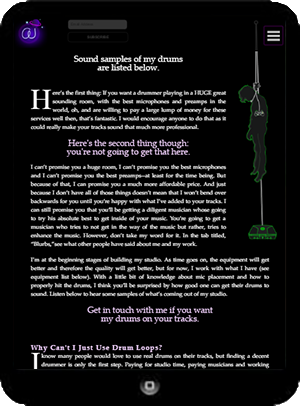
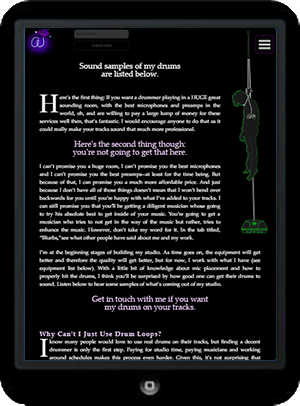
Adjust margins to remove horizontal wiggle

diff --git a/components/sass/styles.scss b/components/sass/styles.scss
@@ -19,7 +19,7 @@ for the dist build */
             margin: -1px;
             overflow: hidden;
             clip: rect(0, 0, 0, 0);
-            border: 0
+            border: 0;
         }
         .sr-only-focusable:active,
         .sr-only-focusable:focus {
@@ -28,7 +28,7 @@ for the dist build */
             height: auto;
             margin: 0;
             overflow: visible;
-            clip: auto
+            clip: auto;
         }
     }
     
@@ -203,7 +203,7 @@ for the dist build */
                         p:nth-of-type(4) {
                             position: relative;
                             z-index: 100;
-                            width: 70%;
+                            width: 60%;
                             ul {
                                 background: $color1;
                             }
@@ -240,7 +240,7 @@ for the dist build */
                 .process2 {
                     position: relative;
                     opacity: 0;
-                    top: 50px;
+                    top: 100px;
                     p {
                         padding-top: 0px;
                     }
@@ -248,12 +248,12 @@ for the dist build */
                 .process3 {
                     position: relative;
                     opacity: 0;
-                    top: -200px;
+                    top: -275px;
                 }
                 .process4 {
                     position: relative;
                     opacity: 0;
-                    top: -475px;
+                    top: -625px;
                     p {
                         padding-top: 100px;
                     }
@@ -285,10 +285,10 @@ for the dist build */
                     animation-fill-mode: forwards;
                 }
                 #processControl {
-                    width: 100%;
+                    width: 97.5%;
                     padding-left: 2.5%;
                     color: $color3;
-                    margin-top: -750px;
+                    margin-top: -1050px;
                     div {
                         display: inline-block;
                         width: 10%;
@@ -349,6 +349,7 @@ for the dist build */
             }
             .portfolio {
                 background: $color3;
+                margin-bottom: 3.375rem;
                 img:nth-of-type(1) {
                     margin-left: 5%;
                     width: 70%;
@@ -371,7 +372,7 @@ for the dist build */
                 }
                 .col6:nth-of-type(2) {
                     img {
-                        width: 100%;
+                        width: 90%;
                         max-width: 500px;
                     }
                 }
@@ -407,13 +408,16 @@ for the dist build */
                         @include formStyling;
                     }
                     button {
+                        width: 80%;
+                        margin: 1rem 10%;
                         border-color: $color4;
                         color: $color4;
                         &:hover {
-                            color: $color3;
+                            color: $color2;
+                            border-color: $color3;
                         }
                         &:before {
-                            background: $color4;
+                            background: $color3;
                         }
                     }
                 }
@@ -421,6 +425,7 @@ for the dist build */
         }
         footer {
             background: $color5;
+            border-top: 12px solid $color4;
             text-align: center;
             @include links;
             .fa {
@@ -429,7 +434,19 @@ for the dist build */
             a:before {
                 background: transparent;
             }
-        }
+            
+            .col12 { 
+                span {
+                color: $color4;
+                }
+                a {
+                    margin-left: 20%;
+                }
+                i {
+                    color: $color2;
+                }
+            }
+        }       
     }
     
     @media only screen and (min-width: 375px) {
@@ -441,13 +458,13 @@ for the dist build */
                 top: 150px;
             }
             .process3 {
-                top: -100px;
+                top: -150px;
             }
             .process4 {
-                top: -375px;
+                top: -475px;
             }
             #processControl {
-                margin-top: -600px;
+                margin-top: -800px;
             }
         }
     }
@@ -735,17 +752,16 @@ for the dist build */
     @media only screen and (min-width: 960px) {
         html {}
         body {
-            nav {}
-            main {
-                #intro {
-                    div {
-                        .col6:first-of-type {
-                            p {
-                                width: 50vw;
-                            }
+            header {
+                nav {
+                    .navbar {
+                        li {
+                            font-size: 1.25rem;
                         }
                     }
                 }
+            }
+            main {
                 #process {
                     #processControl {
                         margin-top: -700px;
@@ -774,6 +790,15 @@ for the dist build */
                 }
             }
             main {
+                #intro {
+                    div {
+                        .col6:first-of-type {
+                            p {
+                                width: 55vw;
+                            }
+                        }
+                    }
+                }
                 #process {
                     .process2 {
                         top: -150px;
@@ -799,4 +824,20 @@ for the dist build */
             }
             footer {}
         }
+    }
+    @media only screen and (min-width: 1350px) {
+        body {
+            main {
+                #intro {
+                    div {
+                        .col6:first-of-type {
+                            p {
+                                width: 45vw;
+                            }
+                        }
+                    }
+                }
+            }
+        }
+        
     }

diff --git a/components/layouts/default.html b/components/layouts/default.html
@@ -25,14 +25,14 @@
 </head>
 <body>
 	<header role="banner">
-		<a href="#main" class="sr-only">Skip to content</a>
+		<a href="#main" id="top" class="sr-only">Skip to content</a>
 		<nav role="navigation">
 			<div id="navbar" class="navbar">
 				<div>
-				<a class="logo" href="index.html"><img src="%img/logo.png" alt="Josh Boyan web design Logo"></a>
+				<a class="logo"><img src="%img/logo.png" alt="Josh Boyan web design Logo"></a>
 				<span  id="mobileTrigger">Menu <i class="fa fa-bars"></i></span>
 				<ul>
-					<li><a tabindex="0">Portfolio</a></li>
+					<li><a>Portfolio</a></li>
 					<li><a tabindex="0" id="developers" class="closed">Developers</a></li>
 					<li><a href="#contact">Contact</a></li>
 				</ul>
@@ -42,23 +42,23 @@
 					<li><a href="http://joshboyan.com/minframe/tutorial.html">mf tutorial</a></li>
 					<li><a href="https://github.com/joshboyan">github</a></li>
 					<li><a href="https://www.npmjs.com/~joshboyan">npm</a></li>
-					<li><a href="https://joshboyan.github.io/resume/">resume</a></li>
+					<li><a href="http://joshboyan.com/resume/">resume</a></li>
 				</ul>
 			</div><!--/.navbar-->
 			<div class="mobileNav">
 				<ul>
 					<li><a href="#">Portfolio</a></li>
 					<li><a href="#">Developers</a></li>
-					<li><a href="">minframe</a></li>
-					<li><a href="">mf tutorial</a></li>
-					<li><a href="">resume</a></li>
+					<li><a href="http://joshboyan.com/minframe/">minframe</a></li>
+					<li><a href="http://joshboyan.com/minframe/tutorial.html">mf tutorial</a></li>
+					<li><a href="http://joshboyan.com/resume/">resume</a></li>
 					<li><a href="#contact">Contact</a></li>
 				</ul>
 				<ul>
-					<li><a href=""><i class="fa fa-github"></i> GitHub</a></li>
-					<li><a href=""><img src="%img/npm.png" alt="npm"></a></li>
-					<li><a href=""><i class="fa fa-codepen"></i> Codepen</a></li>
-					<li><a href=""><i class="fa fa-linkedin"></i> LinkedIn</a></li>
+					<li><a href="https://github.com/joshboyan"><i class="fa fa-github"></i> GitHub</a></li>
+					<li><a href="https://www.npmjs.com/~joshboyan"><img src="%img/npm.png" alt="npm"></a></li>
+					<li><a href="http://codepen.io/joshboyan/"><i class="fa fa-codepen"></i> Codepen</a></li>
+					<li><a href="https://www.linkedin.com/in/joshboyan"><i class="fa fa-linkedin"></i> LinkedIn</a></li>
 				</ul>
 			</div><!--/.mobileNav-->
 		</nav>
@@ -70,10 +70,10 @@
 		<div class="col6">
 			<nav>
 				<ul>
-					<li><a href="index.html">Portfolio</a></li>
-					<li><a href="minframe/index.html">minframe</a></li>
-					<li><a href="minframe/tutorial.html">mf tutorial</a></li>
-					<li><a href="resume/index.html">Resume</a></li>
+					<li><a href="#">Portfolio</a></li>
+					<li><a href="/minframe/">minframe</a></li>
+					<li><a href="/minframe/tutorial.html">mf tutorial</a></li>
+					<li><a href="/resume/">Resume</a></li>
 					<li><a href="#contact">Contact</a></li>
 				</ul>
 			</nav>
@@ -81,14 +81,14 @@
 			<div class="col6">
 				<ul>
 					<li><a href="https://github.com/joshboyan"><i class="fa fa-github"></i><span> github</span></a></li>
-					<li><a href="#"><img src="%img/npm.jpg" alt="npm"></a></li>
-					<li><a href="#"><i class="fa fa-codepen"></i><span> codepen</span></a></li>
-					<li><a href="#"><i class="fa fa-linkedin"></i><span> LinkedIn</span></a></li>
+					<li><a href="https://www.npmjs.com/~joshboyan"><img src="%img/npm.jpg" alt="npm"></a></li>
+					<li><a href="http://codepen.io/joshboyan/"><i class="fa fa-codepen"></i><span> codepen</span></a></li>
+					<li><a href="https://www.linkedin.com/in/joshboyan"><i class="fa fa-linkedin"></i><span> LinkedIn</span></a></li>
 				</ul>
 			</div>
 			<div class="col12">
-				<span>&copy; 2016 Josh Boyan</span>
-				<i class="fa fa-double-arrow-up"></i>
+				<span>&copy; 2016 Josh Boyan <a href="#top"><i class="fa fa-angle-double-up"></i></a></span>
+				
 			</div>
 		
 	</footer>

diff --git a/components/pages/index.html b/components/pages/index.html
@@ -231,7 +231,7 @@ description: "Freelance web designer focused on helping local businesses achieve
                 </select><br>
                 <label for="message">Tell Me More</label>
                 <textarea id="message" name="message" rows="10"></textarea>
-                <button type="submit">Submit</button>
+                <button type="submit">Start Growing</button>
             </form>
         </div>
     </section><!--/#contact -->
